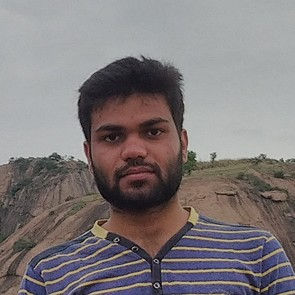
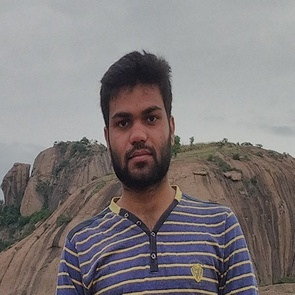
image corrections

diff --git a/team.html b/team.html
@@ -690,7 +690,7 @@
                 <div class="card card-team two">
                     <div class="card-content-team">
                         <div class="card-img-div">
-                            <img class="card-img-top" src="team_images/icon.jpg"
+                            <img class="card-img-top" src="team_images/fullsizeoutput_1bb - Nikunj Agrawal.png"
                                 alt="Card image" style="width:100%">
                         </div>
                         <div class="card-body">
@@ -698,32 +698,32 @@
                                 <h4 class="card-title">NIKUNJ AGRAWAL</h4>
                             </a>
                             <h4 class="card-subtitle">events head</h4>
-                            <p class="card-text"><br></p>
+                            <p class="card-text">nikunj@alcheringa.in<br>9893055899</p>
                             <div class="footer-social-icons ">
-                                  <!-- <ul class="flex flex-wrap justify-content-center align-items-center">
+                                   <ul class="flex flex-wrap justify-content-center align-items-center">
                                  <li>
-                                        <a href="#">
+                                        <a href="https://www.facebook.com/nikunj.agrawal.52012">
                                             <span class="fa-stack fa-lg icon-facebook">
                                                 <i class="fa fa-circle fa-stack-2x"></i>
                                                 <i class="fa fa-facebook fa-stack-1x"></i>
                                             </span></a>
                                     </li>
                                     <li>
-                                        <a href="#">
+                                        <a href="https://www.instagram.com/nikunj9899/">
                                             <span class="fa-stack fa-lg icon-instagram">
                                                 <i class="fa fa-circle fa-stack-2x"></i>
                                                 <i class="fa fa-instagram fa-stack-1x"></i>
                                             </span></a>
                                     </li>
-                                    <li>
+                                <!--    <li>
                                         <a href="#">
                                             <span class="fa-stack fa-lg icon-twitter">
                                                 <i class="fa fa-circle fa-stack-2x"></i>
                                                 <i class="fa fa-twitter fa-stack-1x"></i>
                                             </span></a>
-                                    </li>
+                                    </li>-->
                                     <li>
-                                        <a href="#">
+                                        <a href="https://www.linkedin.com/in/nikunj-agrawal-a07aa7159/">
                                             <span class="fa-stack fa-lg icon-linkedin">
                                                 <i class="fa fa-circle fa-stack-2x"></i>
                                                 <i class="fa fa-linkedin fa-stack-1x"></i>
@@ -732,7 +732,7 @@
 
 
 
-                                </ul>-->
+                                </ul>
                             </div>
                         </div>
                     </div>
@@ -1183,7 +1183,7 @@
                 <div class="card card-team">
                     <div class="card-content-team">
                         <div class="card-img-div">
-                            <img class="card-img-top" src="team_images/icon.jpg"
+                            <img class="card-img-top" src="team_images/IMG_20190623_165746 - Aamir Pasha.png"
                                 alt="Card image" style="width:100%">
                         </div>
                         <div class="card-body">
@@ -1191,7 +1191,7 @@
                                 <h4 class="card-title">AAMIR PASHA</h4>
                             </a>
                             <h4 class="card-subtitle">rock-o-phonix coordinator</h4>
-                            <p class="card-text"><br></p>
+                            <p class="card-text">maamirpasha@gmail.com<br>8011991060</p>
                             <div class="footer-social-icons ">
                               <!--  <ul class="flex flex-wrap justify-content-center align-items-center">
                                     <li>
